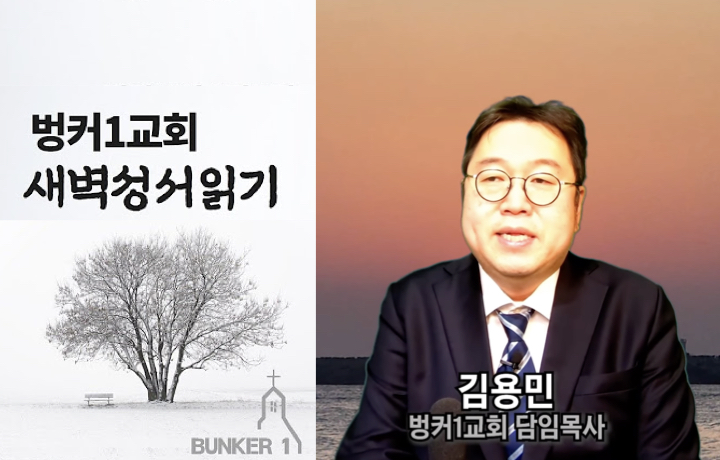
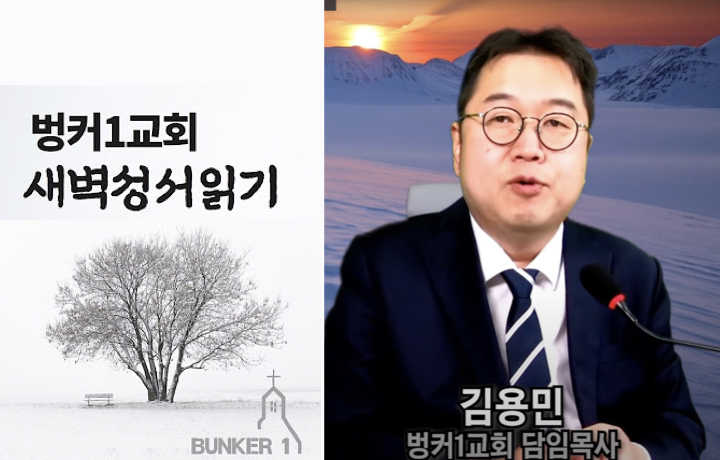
예배 이미지 교체
금요성경공부 이미지 추가
새벽성서읽기 이미지 교체

diff --git a/service.html b/service.html
@@ -76,6 +76,15 @@
                 <div><a href="sermons/wednesday.html"><img class="paper" src="image/icon_paper.png" alt="설교문 아이콘" />설교문 모음</a></div>
             </div>
             <div>&nbsp;</div>
+        </article>
+    </section>
+    <section class="section_container">
+        <article class="article_left">
+            <div class="img_base">
+                <img src="image/service_006.jpg" alt="금요성경공부" />
+            </div>
+        </article>
+        <article class="article_right">
             <h1>금요성경공부</h1>
             <div>
                 <span class="span_description">
